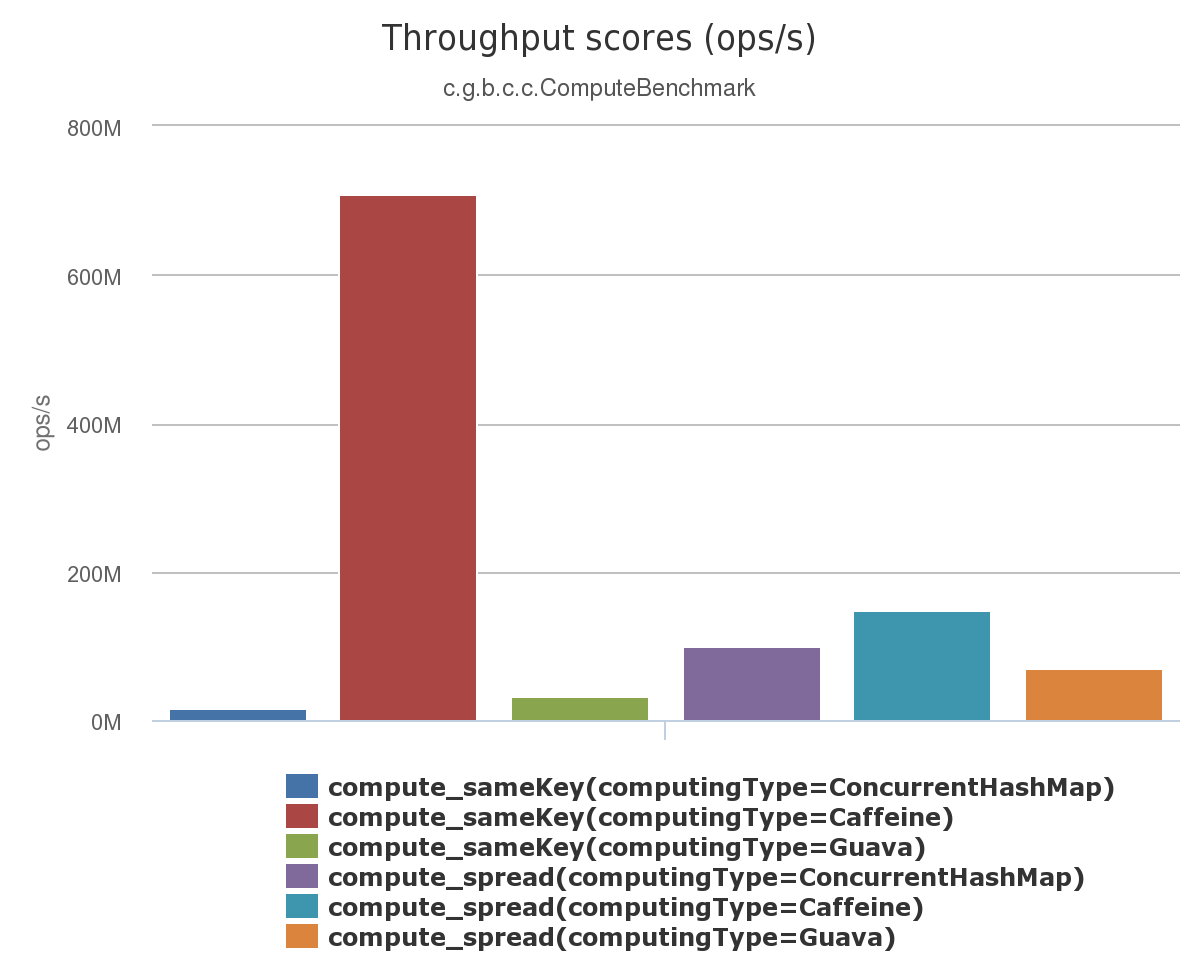
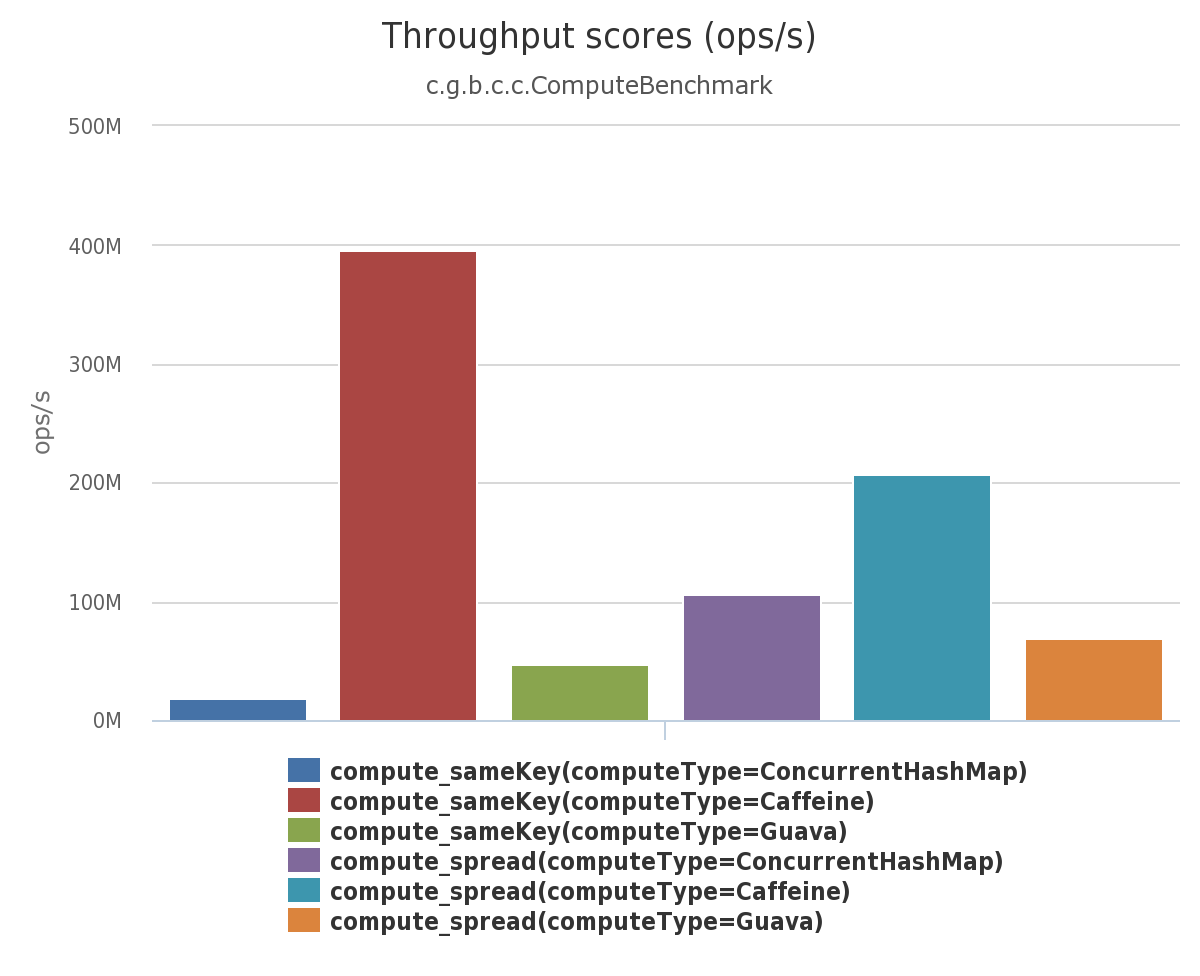
Update compute benchmark

diff --git a/caffeine/src/jmh/java/com/github/benmanes/caffeine/cache/ComputeBenchmark.java b/caffeine/src/jmh/java/com/github/benmanes/caffeine/cache/ComputeBenchmark.java
@@ -15,10 +15,7 @@
  */
 package com.github.benmanes.caffeine.cache;
 
-import static java.util.Objects.requireNonNull;
-
-import java.util.Map;
-import java.util.Objects;
+import java.util.Arrays;
 import java.util.concurrent.ConcurrentHashMap;
 import java.util.concurrent.ConcurrentMap;
 import java.util.concurrent.ThreadLocalRandom;
@@ -46,10 +43,9 @@ public class ComputeBenchmark {
   static final Integer COMPUTE_KEY = SIZE / 2;
 
   @Param({"ConcurrentHashMap", "Caffeine", "Guava"})
-  String computingType;
+  String computeType;
 
   Function<Integer, Boolean> benchmarkFunction;
-  Map<Integer, Boolean> cache;
   Integer[] ints;
 
   @State(Scope.Thread)
@@ -57,24 +53,26 @@ public class ComputeBenchmark {
     int index = ThreadLocalRandom.current().nextInt();
   }
 
-  @Setup
-  public void setup() throws Exception {
-    if (Objects.equals(computingType, "ConcurrentHashMap")) {
-      setupConcurrentHashMap();
-    } else if (Objects.equals(computingType, "Caffeine")) {
-      setupCaffeine();
-    } else if (Objects.equals(computingType, "Guava")) {
-      setupGuava();
-    } else {
-      throw new AssertionError("Unknown computingType: " + computingType);
-    }
-    requireNonNull(benchmarkFunction);
-
+  public ComputeBenchmark() {
     ints = new Integer[SIZE];
     IntegerGenerator generator = new ScrambledZipfianGenerator(SIZE);
     for (int i = 0; i < SIZE; i++) {
       ints[i] = generator.nextInt();
     }
+  }
+
+  @Setup
+  public void setup() {
+    if (computeType.equals("ConcurrentHashMap")) {
+      setupConcurrentHashMap();
+    } else if (computeType.equals("Caffeine")) {
+      setupCaffeine();
+    } else if (computeType.equals("Guava")) {
+      setupGuava();
+    } else {
+      throw new AssertionError("Unknown computingType: " + computeType);
+    }
+    Arrays.stream(ints).forEach(benchmarkFunction::apply);
   }
 
   @Benchmark @Threads(32)
@@ -93,7 +91,7 @@ public class ComputeBenchmark {
   }
 
   private void setupCaffeine() {
-    Cache<Integer, Boolean> cache = Caffeine.newBuilder().build();
+    Cache<Integer, Boolean> cache = Caffeine.newBuilder().initialCapacity(SIZE).build();
     benchmarkFunction = key -> cache.get(key, any -> Boolean.TRUE);
   }
 

diff --git a/caffeine/src/main/java/com/github/benmanes/caffeine/cache/Caffeine.java b/caffeine/src/main/java/com/github/benmanes/caffeine/cache/Caffeine.java
@@ -499,7 +499,7 @@ public final class Caffeine<K, V> {
   /**
    * Specifies that each entry should be automatically removed from the cache once a fixed duration
    * has elapsed after the entry's creation, the most recent replacement of its value, or its last
-   * access. Access time is reset by all cache read and write operations (including
+   * read. Access time is reset by all cache read and write operations (including
    * {@code Cache.asMap().get(Object)} and {@code Cache.asMap().put(K, V)}), but not by operations
    * on the collection-views of {@link Cache#asMap}.
    * <p>
